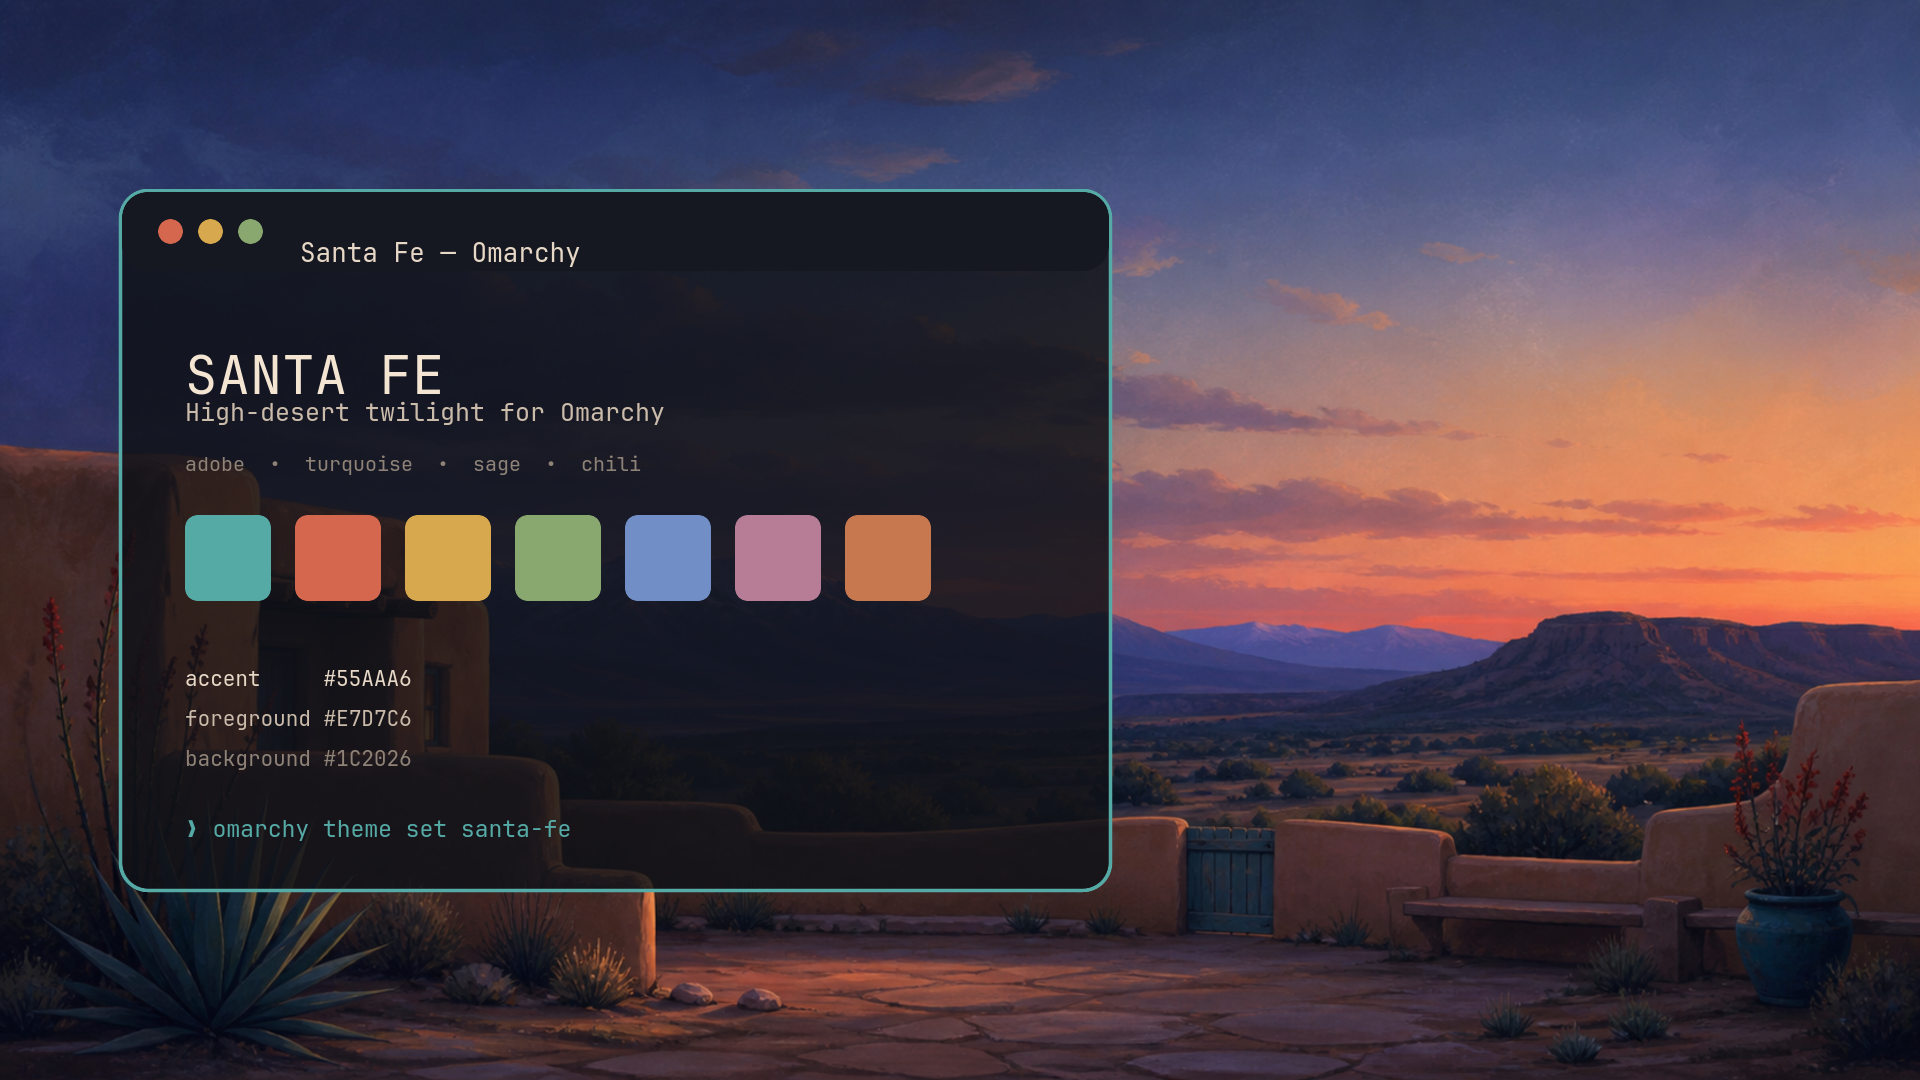
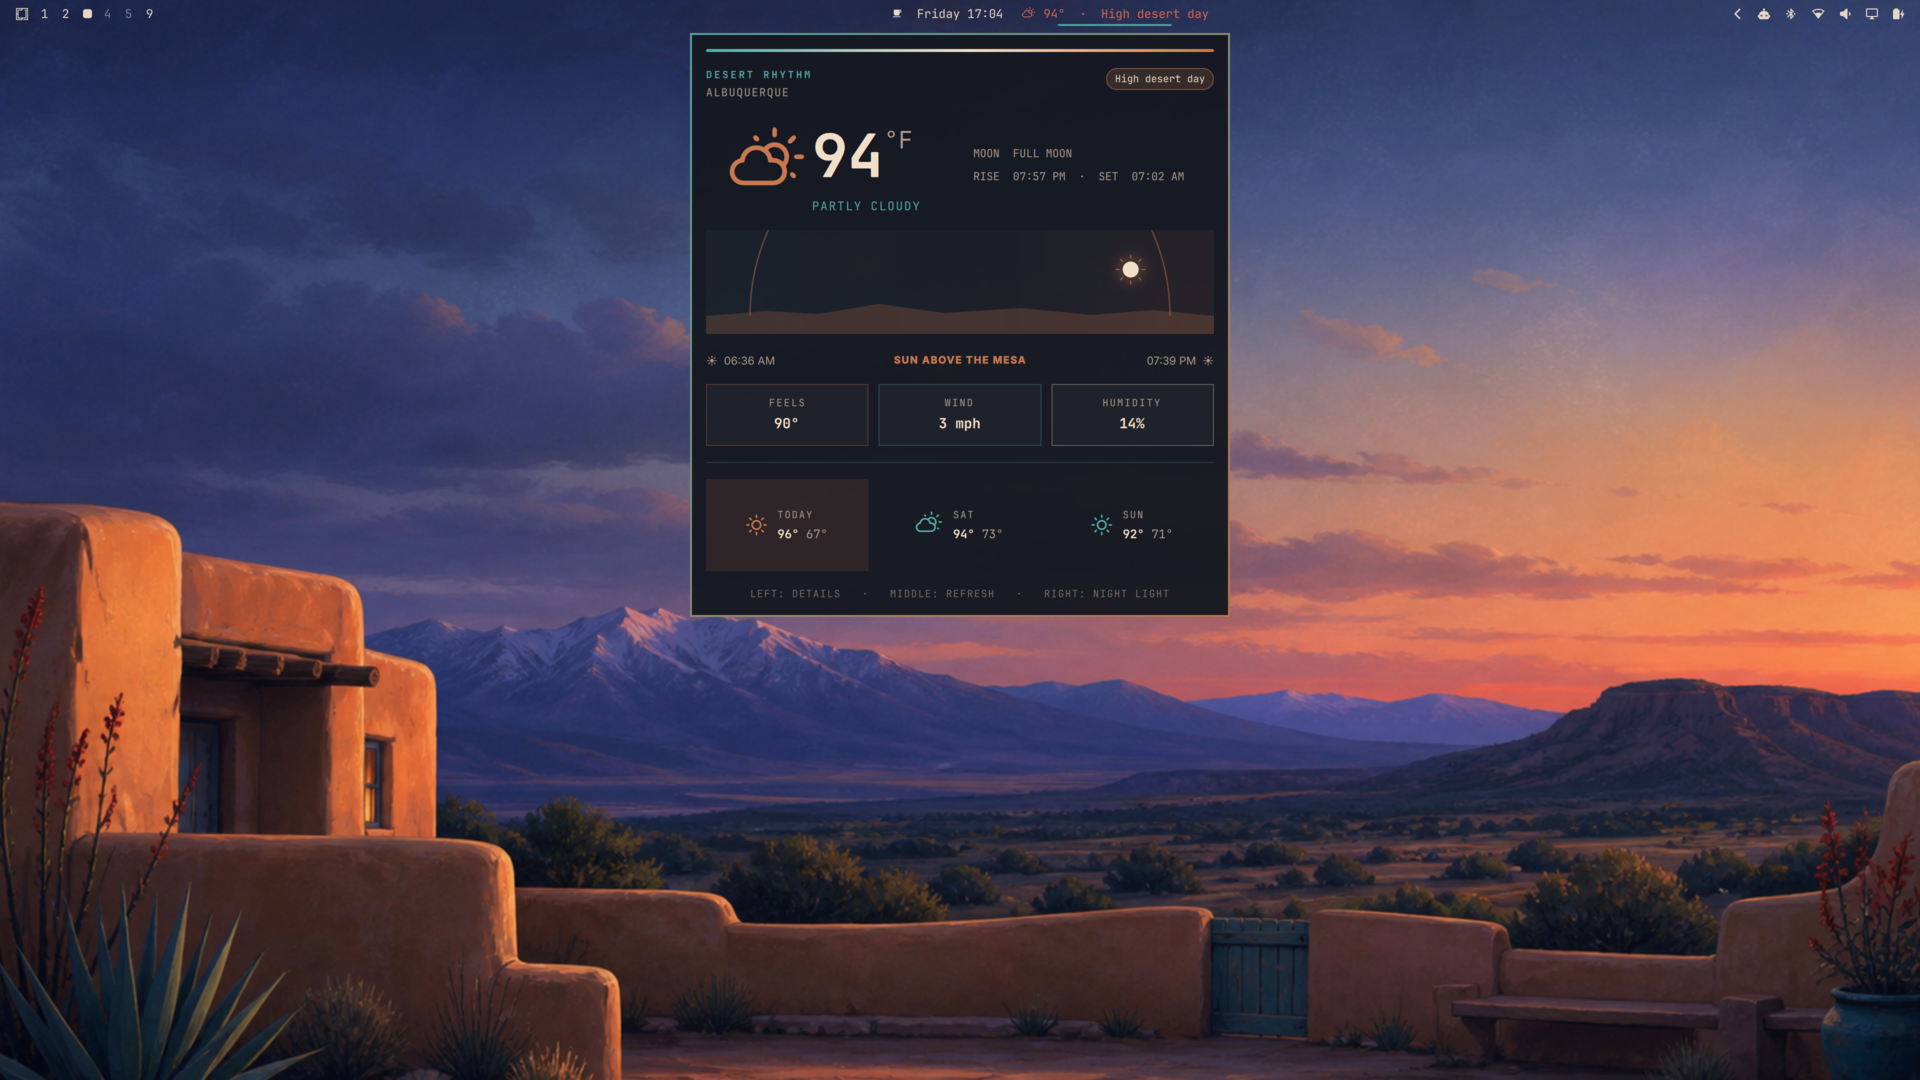
Showcase Desert Rhythm companion widget

diff --git a/README.md b/README.md
@@ -29,9 +29,11 @@ from the palette when the theme is applied.
 ## Optional Desert Rhythm widget
 
 The companion [Desert Rhythm plugin](https://github.com/majesticio/omarchy-desert-rhythm-plugin)
-adds a time-aware desert sun to the bar. It cycles through dawn, high-desert
-day, golden hour, and night; it also provides shortcuts for wallpaper cycling,
-night light, and weather status.
+adds live weather and a solar/lunar desert horizon to the bar. Its panel follows
+real sunrise and sunset through blue hour, desert dawn, high-desert day, golden
+hour, adobe afterglow, and desert night, then positions the moon using moonrise
+and moonset data. Left-click opens the forecast, middle-click refreshes, and
+right-click toggles night light.
 
 ```bash
 omarchy plugin add https://github.com/majesticio/omarchy-desert-rhythm-plugin --enable --yes
